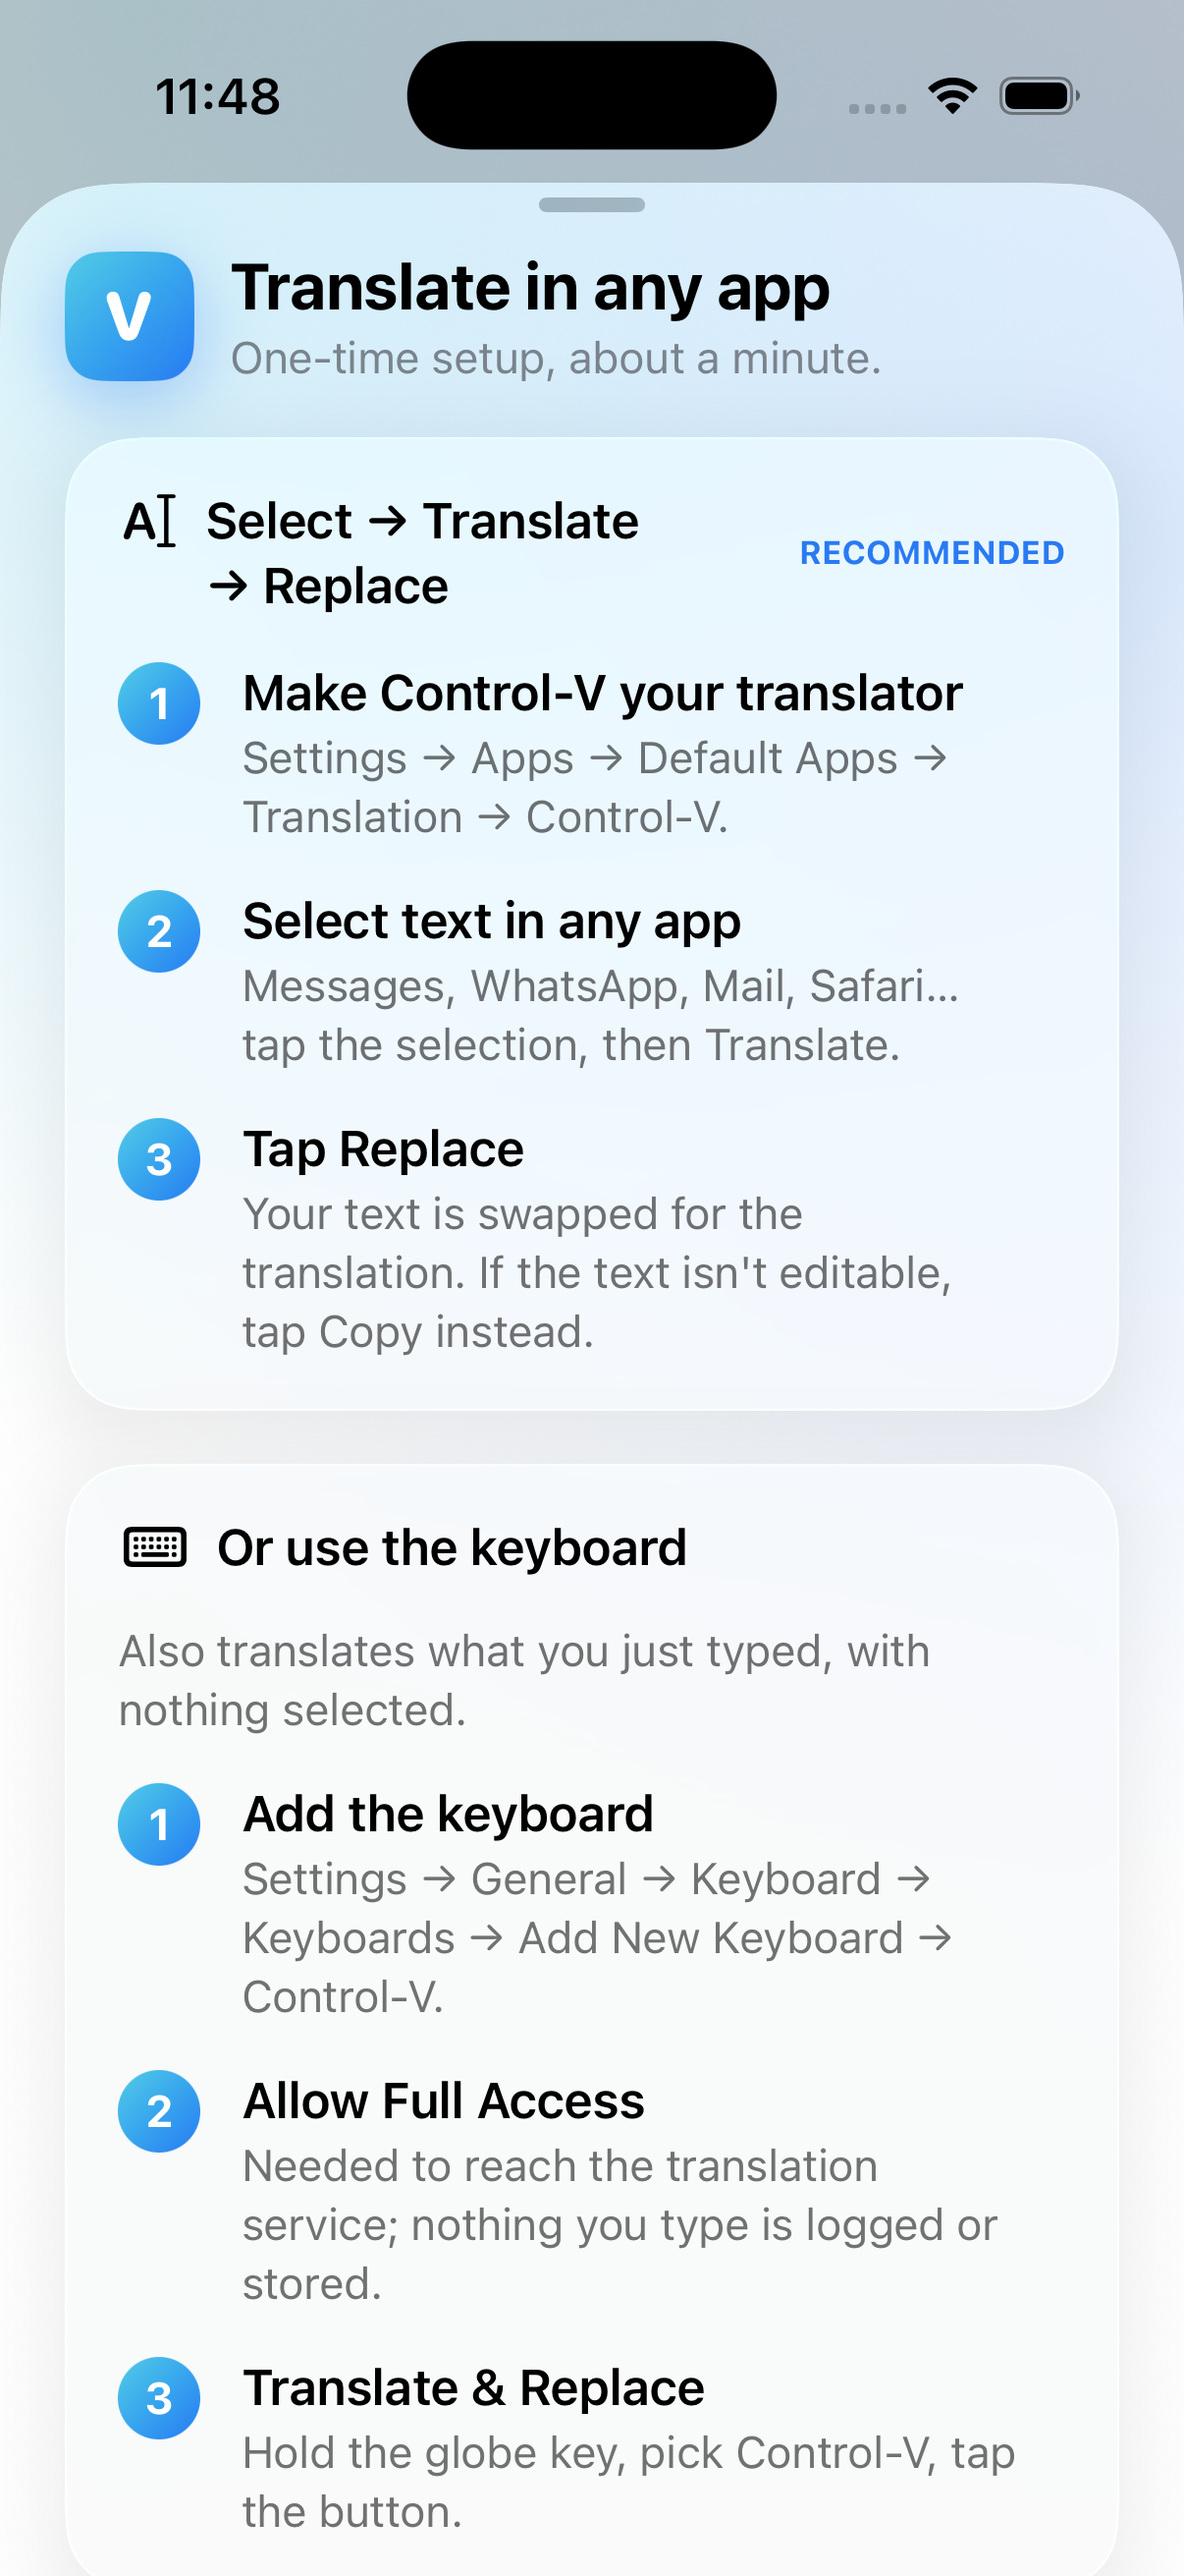
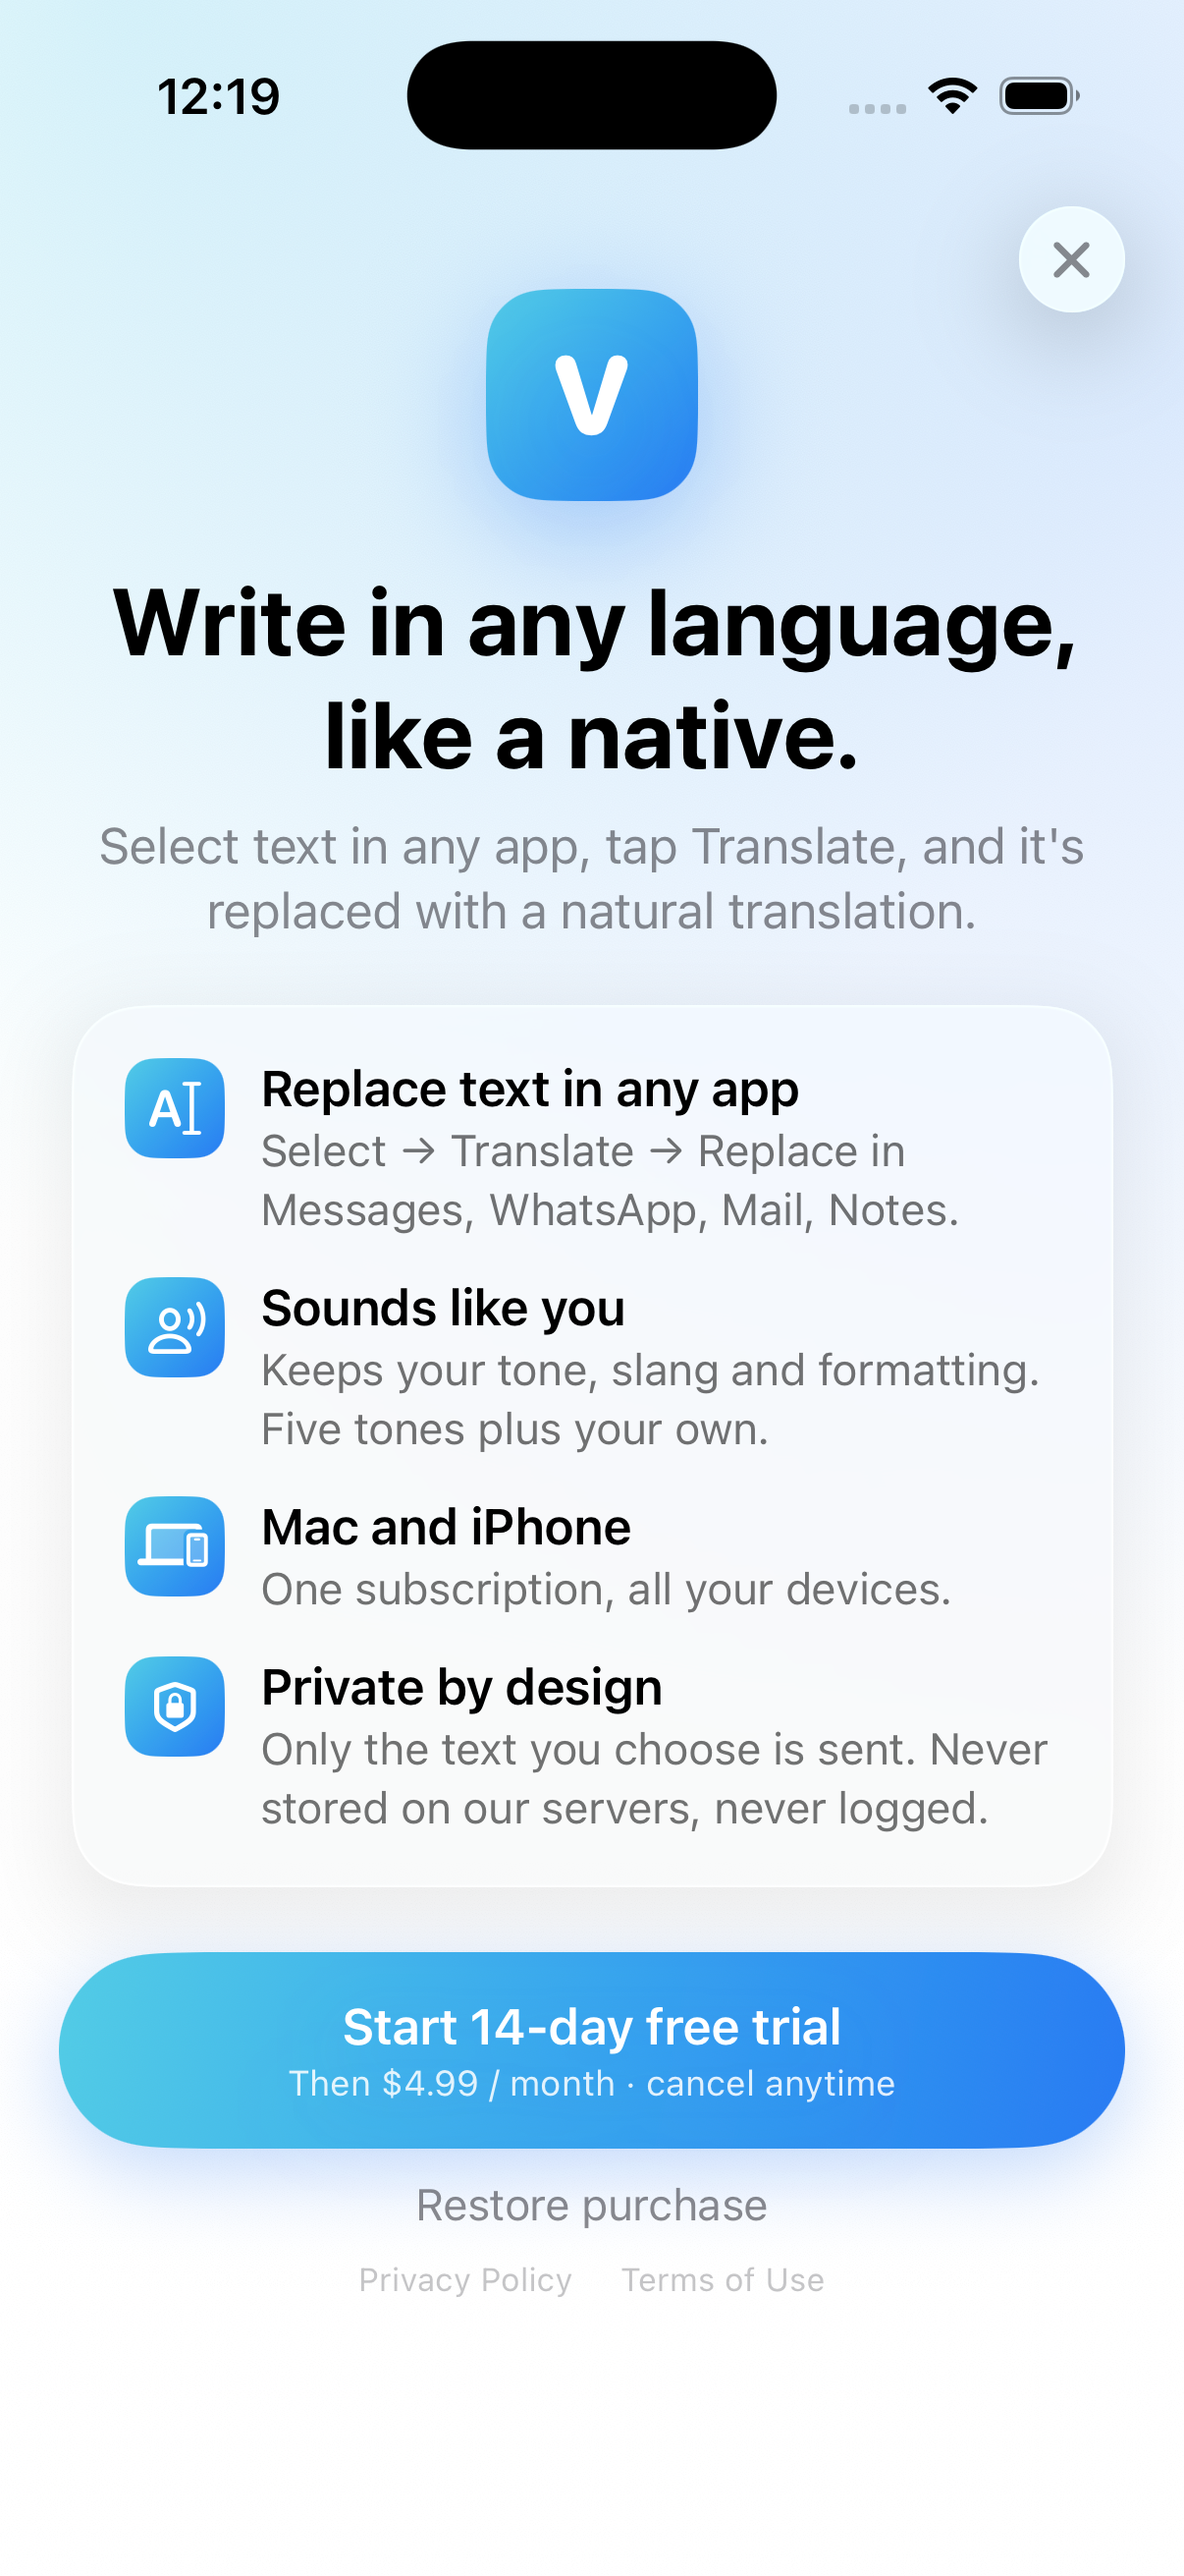
iOS: paywall preview pricing for screenshots; App Review screenshot for the subscription
The StoreKit product only resolves when the app runs from a scheme with a
StoreKit configuration, so a simctl launch rendered the paywall's
'pricing unavailable' state. PaywallView now takes an optional preview
(price + trial length), reachable in DEBUG through -ui.previewPricing,
which is how iap-paywall-review.png is captured. Release builds ignore it.

diff --git a/iOS/Sources/ControlViOS/Views/PaywallView.swift b/iOS/Sources/ControlViOS/Views/PaywallView.swift
@@ -7,12 +7,30 @@ import SwiftUI
 /// Shown as an overlay by RootTabView; `onClose` hides it.
 struct PaywallView: View {
     var onClose: () -> Void = {}
+
+    /// Fixed pricing for snapshots (App Review screenshot, design review). The
+    /// StoreKit product is only available when the app runs from a scheme with
+    /// a StoreKit configuration or against the real store, so screenshots taken
+    /// any other way would show the "pricing unavailable" state.
+    struct Preview {
+        var priceText: String
+        var trialDays: Int?
+    }
+    let preview: Preview?
+
     @Environment(StoreKitSubscriptionManager.self) private var subscriptions
     @Environment(LicenseService.self) private var license
     @State private var isWorking = false
     @State private var hasLoaded = false
     @State private var trialDays: Int?
     @State private var errorMessage: String?
+
+    init(preview: Preview? = nil, onClose: @escaping () -> Void = {}) {
+        self.preview = preview
+        self.onClose = onClose
+        _trialDays = State(initialValue: preview?.trialDays)
+        _hasLoaded = State(initialValue: preview != nil)
+    }
 
     var body: some View {
         ZStack {
@@ -57,7 +75,7 @@ struct PaywallView: View {
                 .accessibilityLabel("Not now")
             }
         }
-        .task { await load() }
+        .task { if preview == nil { await load() } }
     }
 
     // MARK: - Pricing
@@ -65,11 +83,11 @@ struct PaywallView: View {
     @ViewBuilder
     private var pricing: some View {
         VStack(spacing: 10) {
-            if let product = subscriptions.product {
-                Button { Task { await purchase(product) } } label: {
+            if let priceText = preview?.priceText ?? subscriptions.product?.displayPrice {
+                Button { Task { if let product = subscriptions.product { await purchase(product) } } } label: {
                     VStack(spacing: 2) {
                         Text(ctaTitle).font(.headline)
-                        Text(ctaDetail(for: product)).font(.caption).opacity(0.85)
+                        Text(ctaDetail(price: priceText)).font(.caption).opacity(0.85)
                     }
                 }
                 .buttonStyle(PrimaryButtonStyle())
@@ -99,6 +117,7 @@ struct PaywallView: View {
     }
 
     private var canDismiss: Bool {
+        if preview != nil { return true }
         switch license.state {
         case .trial, .active: return true
         case .checking, .expired, .invalid: return false
@@ -110,10 +129,10 @@ struct PaywallView: View {
         return "Subscribe to Control-V Pro"
     }
 
-    private func ctaDetail(for product: Product) -> String {
+    private func ctaDetail(price: String) -> String {
         trialDays == nil
-            ? "\(product.displayPrice) / month · cancel anytime"
-            : "Then \(product.displayPrice) / month · cancel anytime"
+            ? "\(price) / month · cancel anytime"
+            : "Then \(price) / month · cancel anytime"
     }
 
     // MARK: - Actions

diff --git a/iOS/Tests/Snapshots/ExtensionSnapshotTests.swift b/iOS/Tests/Snapshots/ExtensionSnapshotTests.swift
@@ -85,6 +85,21 @@ final class ExtensionSnapshotTests: XCTestCase {
         try snapshot(TranslationProviderView(context: editable, preview: .done(translated)), size: size, name: "tr-done-dark", dark: true, background: .systemBackground, ignoresSafeArea: true)
     }
 
+    /// The App Review screenshot for the subscription, and a design check of the
+    /// paywall: `preview:` supplies the price StoreKit only serves when the app
+    /// runs from the scheme's StoreKit configuration.
+    @MainActor
+    func test_renderPaywall_forAppReview() throws {
+        let license = LicenseService(openURLHandler: { _ in }, startBackgroundTasks: false)
+        license.applyDebugState(.trial(daysRemaining: 9))
+        let subscriptions = StoreKitSubscriptionManager(licenseService: license)
+        let paywall = PaywallView(preview: .init(priceText: "$4.99", trialDays: 14))
+            .environment(license)
+            .environment(subscriptions)
+        try snapshot(paywall, size: CGSize(width: 402, height: 874), name: "paywall-review", background: .systemBackground)
+        try snapshot(paywall, size: CGSize(width: 402, height: 874), name: "paywall-review-dark", dark: true, background: .systemBackground)
+    }
+
     // MARK: - Rendering
 
     @MainActor
@@ -108,7 +123,12 @@ final class ExtensionSnapshotTests: XCTestCase {
 
         let format = UIGraphicsImageRendererFormat.default()
         format.scale = 3
-        let image = UIGraphicsImageRenderer(bounds: window.bounds, format: format).image { _ in
+        let renderer = UIGraphicsImageRenderer(bounds: window.bounds, format: format)
+        // Warm-up pass: the first draw of a view that uses glass/material samples a
+        // stale backdrop, which leaves a ghost of the content behind the card.
+        _ = renderer.image { _ in window.drawHierarchy(in: window.bounds, afterScreenUpdates: true) }
+        RunLoop.main.run(until: Date().addingTimeInterval(0.3))
+        let image = renderer.image { _ in
             window.drawHierarchy(in: window.bounds, afterScreenUpdates: true)
         }
         try FileManager.default.createDirectory(at: outputDir, withIntermediateDirectories: true)

diff --git a/iOS/Sources/ControlViOS/App/DebugLaunch.swift b/iOS/Sources/ControlViOS/App/DebugLaunch.swift
@@ -1,5 +1,6 @@
 import ControlVCore
 import Foundation
+import SwiftUI
 
 /// Launch arguments (NSUserDefaults argument domain) used for headless
 /// screenshots and QA: `xcrun simctl launch <udid> info.controlv.ios -ui.tab account`.
@@ -15,6 +16,12 @@ enum DebugLaunch {
     static var sourceText: String? { d.string(forKey: "ui.sourceText") }
     static var autoTranslate: Bool { d.bool(forKey: "ui.autoTranslate") }
     static var seedHistory: Bool { d.bool(forKey: "ui.seedHistory") }
+    /// Renders the paywall with a fixed price/trial (App Review screenshot):
+    /// StoreKit only serves the product when the app runs from a scheme with a
+    /// StoreKit configuration, so a simctl launch would show the error state.
+    static var previewPricing: PaywallView.Preview? {
+        d.bool(forKey: "ui.previewPricing") ? .init(priceText: "$4.99", trialDays: 14) : nil
+    }
     static var licenseState: LicenseState? {
         switch d.string(forKey: "ui.licenseState") {
         case "trial": return .trial(daysRemaining: 9)
@@ -34,6 +41,7 @@ enum DebugLaunch {
     static var sourceText: String? { nil }
     static var autoTranslate: Bool { false }
     static var seedHistory: Bool { false }
+    static var previewPricing: PaywallView.Preview? { nil }
     static var licenseState: LicenseState? { nil }
 #endif
 }

diff --git a/iOS/Sources/ControlViOS/Views/RootTabView.swift b/iOS/Sources/ControlViOS/Views/RootTabView.swift
@@ -34,7 +34,7 @@ struct RootTabView: View {
             // override) can silently fail to present. The overlay is
             // deterministic and can't be swiped away when the license is expired.
             if showPaywall {
-                PaywallView(onClose: { paywallRequested = false })
+                PaywallView(preview: DebugLaunch.previewPricing, onClose: { paywallRequested = false })
                     .transition(.move(edge: .bottom).combined(with: .opacity))
                     .zIndex(1)
             }
